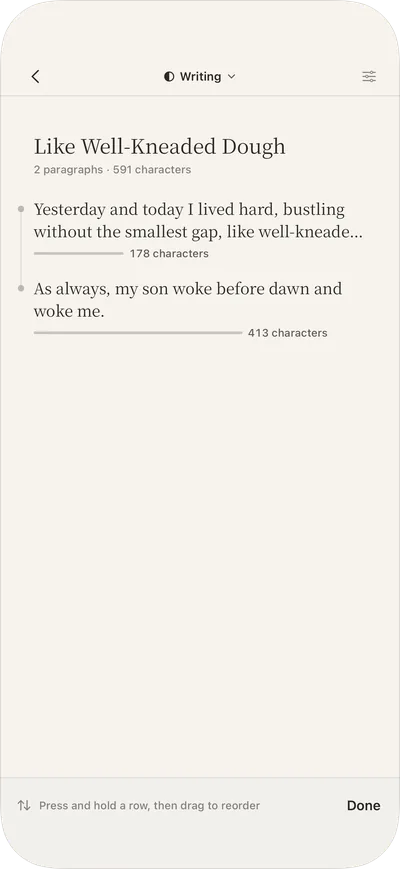
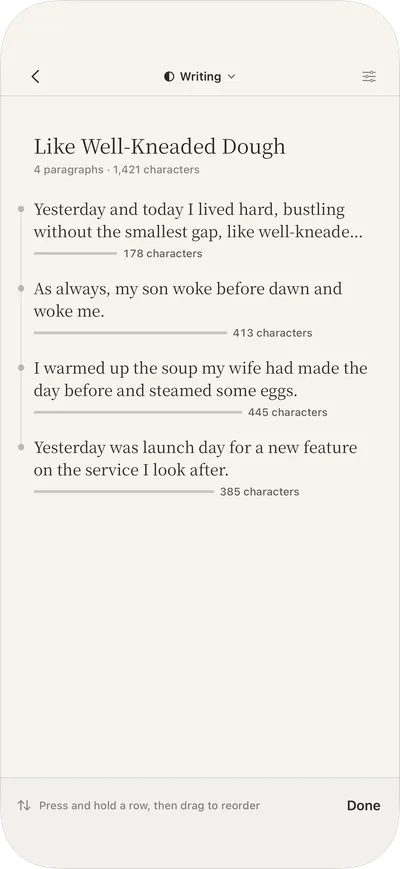
Show the four-paragraph English outline on the landing

diff --git a/en/index.html b/en/index.html
@@ -55,7 +55,7 @@
 <section class="stage" aria-label="Rapt screens">
   <div class="spread">
     <figure class="phone outer"><picture><source media="(prefers-color-scheme: dark)" srcset="/assets/screens/en-memo-dark-400.webp?v=e939ed7b0d 400w, /assets/screens/en-memo-dark-800.webp?v=d92c436ed9 800w" sizes="(max-width: 599px) 64vw, (max-width: 899px) 320px, 300px" /><img src="/assets/screens/en-memo-light-800.webp?v=98017c78ce" srcset="/assets/screens/en-memo-light-400.webp?v=6266c6cd8e 400w, /assets/screens/en-memo-light-800.webp?v=98017c78ce 800w" sizes="(max-width: 599px) 64vw, (max-width: 899px) 320px, 300px" width="800" height="1738" alt="A note with the Write a Draft button below it" loading="lazy" decoding="async" /></picture><figcaption>From note to draft</figcaption></figure>
-    <figure class="phone inner"><picture><source media="(prefers-color-scheme: dark)" srcset="/assets/screens/en-outline-dark-400.webp?v=81e56280f6 400w, /assets/screens/en-outline-dark-800.webp?v=197007e5d8 800w" sizes="(max-width: 599px) 64vw, (max-width: 899px) 320px, 300px" /><img src="/assets/screens/en-outline-light-800.webp?v=a9c10c363b" srcset="/assets/screens/en-outline-light-400.webp?v=d0a737d71d 400w, /assets/screens/en-outline-light-800.webp?v=a9c10c363b 800w" sizes="(max-width: 599px) 64vw, (max-width: 899px) 320px, 300px" width="800" height="1738" alt="Outline — the first sentence of each paragraph with a length bar, so the whole draft fits on one screen" loading="lazy" decoding="async" /></picture><figcaption>The whole flow at a glance</figcaption></figure>
+    <figure class="phone inner"><picture><source media="(prefers-color-scheme: dark)" srcset="/assets/screens/en-outline-dark-400.webp?v=9dc54743dd 400w, /assets/screens/en-outline-dark-800.webp?v=ff3f798650 800w" sizes="(max-width: 599px) 64vw, (max-width: 899px) 320px, 300px" /><img src="/assets/screens/en-outline-light-800.webp?v=955758036b" srcset="/assets/screens/en-outline-light-400.webp?v=ae7f2be291 400w, /assets/screens/en-outline-light-800.webp?v=955758036b 800w" sizes="(max-width: 599px) 64vw, (max-width: 899px) 320px, 300px" width="800" height="1738" alt="Outline — the first sentence of each paragraph with a length bar, so the whole draft fits on one screen" loading="lazy" decoding="async" /></picture><figcaption>The whole flow at a glance</figcaption></figure>
     <figure class="phone center"><picture><source media="(prefers-color-scheme: dark)" srcset="/assets/screens/en-writing-dark-400.webp?v=481e8c9d43 400w, /assets/screens/en-writing-dark-800.webp?v=7ec097a219 800w" sizes="(max-width: 599px) 64vw, (max-width: 899px) 320px, 300px" /><img src="/assets/screens/en-writing-light-800.webp?v=5ecb739ac5" srcset="/assets/screens/en-writing-light-400.webp?v=7dc089c3a4 400w, /assets/screens/en-writing-light-800.webp?v=5ecb739ac5 800w" sizes="(max-width: 599px) 64vw, (max-width: 899px) 320px, 300px" width="800" height="1738" alt="Writing — only the paragraph being written stays sharp while the rest of the draft fades back" decoding="async" /></picture><figcaption>Built for focus</figcaption></figure>
     <figure class="phone inner"><picture><source media="(prefers-color-scheme: dark)" srcset="/assets/screens/en-spellcheck-dark-400.webp?v=fd1e2f8599 400w, /assets/screens/en-spellcheck-dark-800.webp?v=09a1ad64df 800w" sizes="(max-width: 599px) 64vw, (max-width: 899px) 320px, 300px" /><img src="/assets/screens/en-spellcheck-light-800.webp?v=bc22bdc098" srcset="/assets/screens/en-spellcheck-light-400.webp?v=1e958d17be 400w, /assets/screens/en-spellcheck-light-800.webp?v=bc22bdc098 800w" sizes="(max-width: 599px) 64vw, (max-width: 899px) 320px, 300px" width="800" height="1738" alt="Spelling results — each fix shows the original and the suggestion, to apply one at a time or all at once" loading="lazy" decoding="async" /></picture><figcaption>Spelling, fixed in place</figcaption></figure>
     <figure class="phone outer"><picture><source media="(prefers-color-scheme: dark)" srcset="/assets/screens/en-export-dark-400.webp?v=c895315ee7 400w, /assets/screens/en-export-dark-800.webp?v=3bd6f1d16a 800w" sizes="(max-width: 599px) 64vw, (max-width: 899px) 320px, 300px" /><img src="/assets/screens/en-export-light-800.webp?v=c089ff1b1e" srcset="/assets/screens/en-export-light-400.webp?v=76232b4d06 400w, /assets/screens/en-export-light-800.webp?v=c089ff1b1e 800w" sizes="(max-width: 599px) 64vw, (max-width: 899px) 320px, 300px" width="800" height="1738" alt="Export — choose Copy, Post to Threads, Send to Another App or Save as File" loading="lazy" decoding="async" /></picture><figcaption>Anywhere it needs to go</figcaption></figure>
